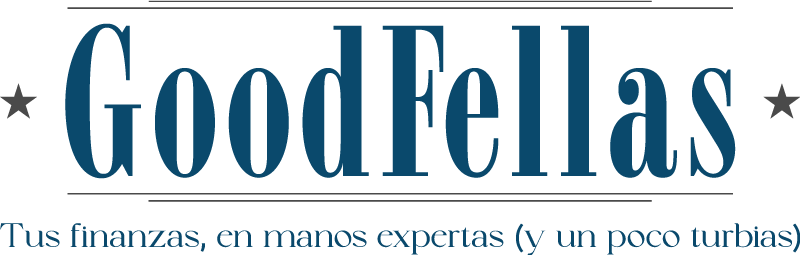
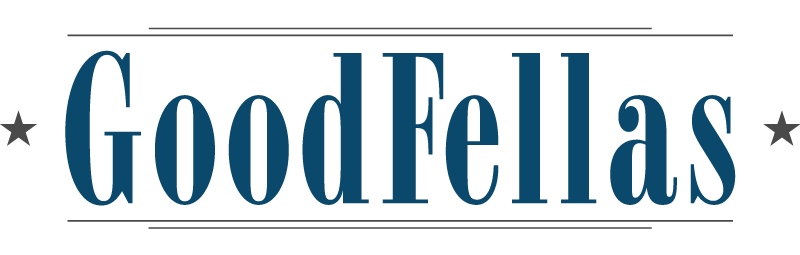
Subiendo

diff --git a/public_html/js/botones_pesos_dolares.js b/public_html/js/botones_pesos_dolares.js
@@ -20,5 +20,26 @@ document.addEventListener("DOMContentLoaded", () => {
         tablaResumenDolares.classList.remove("d-none");
         tablaResumenPesos.classList.add("d-none");
     });
+
+    // Acciones
+    const btnAccionesPesos = document.getElementById("btnAccionesPesos");
+    const btnAccionesDolares = document.getElementById("btnAccionesDolares");
+    const tablaAccionesPesos = document.getElementById("tablaAccionesPesos");
+    const tablaAccionesDolares = document.getElementById("tablaAccionesDolares");
+
+    // Función para alternar entre las tablas
+    btnAccionesPesos.addEventListener("click", () => {
+        btnAccionesPesos.classList.add("active");
+        btnAccionesDolares.classList.remove("active");
+        tablaAccionesPesos.classList.remove("d-none");
+        tablaAccionesDolares.classList.add("d-none");
+    });
+
+    btnAccionesDolares.addEventListener("click", () => {
+        btnAccionesDolares.classList.add("active");
+        btnAccionesPesos.classList.remove("active");
+        tablaAccionesDolares.classList.remove("d-none");
+        tablaAccionesPesos.classList.add("d-none");
+    });
     
 });

diff --git a/public_html/css/style.css b/public_html/css/style.css
@@ -1,10 +1,15 @@
 /* Archivo styles.css */
 @import url('https://fonts.googleapis.com/css2?family=Nunito+Sans:ital,opsz,wght@0,6..12,200..1000;1,6..12,200..1000&family=Ubuntu:ital,wght@0,300;0,400;0,500;0,700&display=swap');
+@import url('https://fonts.googleapis.com/css2?family=Playfair+Display:ital,wght@0,400..900;1,400..900&display=swap');
 
 body {
   font-family: "Nunito Sans", serif;
 }
-
+h1 {
+  font-family: 'Playfair Display', serif;
+  color: #08486B;
+  font-size: 1.8rem;
+}
 .sidebar {
   height: 100vh;
   position: fixed;

diff --git a/public_html/backend/cliente.php b/public_html/backend/cliente.php
@@ -1,3 +1,20 @@
+<?php
+// Incluir archivo de configuración
+require_once '../../config/config.php';
+
+// Obtener el id del cliente desde la URL
+$cliente_id = isset($_GET['id']) ? $_GET['id'] : 1;
+
+// Consulta para obtener los datos del cliente
+$sql = "SELECT nombre, apellido FROM clientes WHERE id = ?";
+$stmt = $conn->prepare($sql);
+$stmt->bind_param("i", $cliente_id);
+$stmt->execute();
+$stmt->bind_result($nombre, $apellido);
+$stmt->fetch();
+$stmt->close();
+?>
+
 <!DOCTYPE html>
 <html lang="es">
 
@@ -34,24 +51,19 @@
             <div class="collapse navbar-collapse" id="navbarNavDropdown">
                 <ul class="navbar-nav ms-auto">
                     <li class="nav-item">
-                        <a class="nav-link" href="../index.php"><i class="fas fa-home me-2"></i>Inicio
-                        </a>
+                        <a class="nav-link" href="../index.php"><i class="fas fa-home me-2"></i>Inicio</a>
                     </li>
                     <li class="nav-item">
-                        <a class="nav-link" href="lista_clientes.php"><i class="fa-solid fa-users me-2"></i>Clientes
-                        </a>
+                        <a class="nav-link active" href="lista_clientes.php"><i class="fa-solid fa-users me-2"></i>Clientes</a>
                     </li>
                     <li class="nav-item">
-                        <a class="nav-link" href="alta_clientes.php"><i class="fa-solid fa-user-plus me-2"></i>Alta Clientes
-                        </a>
+                        <a class="nav-link" href="alta_clientes.php"><i class="fa-solid fa-user-plus me-2"></i>Alta Clientes</a>
                     </li>
                     <li class="nav-item">
-                        <a class="nav-link active href=" historial.php"><i class="fa-solid fa-clock-rotate-left me-2"></i>Historial
-                        </a>
+                        <a class="nav-link" href="historial.php"><i class="fa-solid fa-clock-rotate-left me-2"></i>Historial</a>
                     </li>
                     <li class="nav-item">
-                        <a class="nav-link" href="../logout.php"><i class="fa-solid fa-power-off me-2"></i>Salir
-                        </a>
+                        <a class="nav-link" href="../logout.php"><i class="fa-solid fa-power-off me-2"></i>Salir</a>
                     </li>
                 </ul>
             </div>
@@ -64,7 +76,7 @@
 
         <!-- TITULO -->
         <div class="col-12 text-center">
-            <h4 class="fancy"><!-- CLIENTE --></h4>
+            <h4 class="fancy"><?php echo htmlspecialchars($nombre . ' ' . $apellido); ?></h4>
         </div>
         <!-- FIN TITULO -->
 
@@ -99,6 +111,167 @@
             </div>
         </div>
         <!-- FIN RESUMEN -->
+
+        <!-- TENENCIAS -->
+        <div class="col-12 text-center">
+
+            <!-- ACCIONES -->
+            <div class="container-fluid my-4 efectivo" id="acciones">
+                <h5 class="me-2 cartera titulo-botones">Acciones</h5>
+
+                <!-- Botones -->
+                <div class="text-start">
+                    <div class="btn-group mb-3" role="group">
+                        <button id="btnAccionesPesos" class="btn btn-custom ver active">Posición en Pesos</button>
+                        <button id="btnAccionesDolares" class="btn btn-custom ver">Posición en Dólares</button>
+                    </div>
+                </div>
+                <!-- Fin Botones -->
+
+                <!-- Acciones Pesos -->
+                <div id="tablaAccionesPesos">
+
+                    <!-- Consolidada Acciones Pesos -->
+                    <div class="table-responsive">
+                        <table class="table table-bordered table-striped">
+                            <thead>
+                                <tr>
+                                    <th>Valor Inicial</th>
+                                    <th>Valor Actual</th>
+                                    <th>Rendimiento</th>
+                                    <th>Rentabilidad</th>
+                            </thead>
+                            <tbody>
+                                <tr>
+                                    <td><!-- valor_inicial_acciones_pesos --></td>
+                                    <td><!-- valor_actual_acciones_pesos --></td>
+                                    <td><!-- rendimiento_acciones_pesos --></td>
+                                    <td><!-- rentabilidad_acciones_pesos --></td>
+                                </tr>
+                            </tbody>
+                        </table>
+                    </div>
+                    <!-- Fin Consolidada Acciones Pesos -->
+
+                    <hr class="linea-accion">
+
+                    <!-- Completa Acciones Pesos -->
+                    <div class="table-responsive">
+                        <table class="table table-bordered table-striped">
+                            <thead>
+                                <tr>
+                                    <th>Ticker</th>
+                                    <th>Fecha</th>
+                                    <th>Cantidad</th>
+                                    <th>Valor<br>Compra</th>
+                                    <th>Valor<br>Actual</th>
+                                    <th>Rendimiento</th>
+                                    <th>Rentabilidad</th>
+                                    <th colspan="2">Venta</th>
+                                    <th colspan="2">Operaciones</th>
+                                </tr>
+                            </thead>
+                            <tbody id="tabla-acciones-pesos">
+                                <tr>
+                                    <td>AAPL</td>
+                                    <td>10-02-2025</td>
+                                    <td>10</td>
+                                    <td>100</td>
+                                    <td>150</td>
+                                    <td>50</td>
+                                    <td>50%</td>
+                                    <td class="text-center"><a href="" class="btn btn-custom eliminar" data-bs-toggle="tooltip" data-bs-placement="top" title="Venta parcial"><i class="fa-solid fa-percent"></i></a></td>
+                                    <td class="text-center"><a href="" class="btn btn-custom eliminar" data-bs-toggle="tooltip" data-bs-placement="top" title="Venta total"><i class="fa-solid fa-dollar-sign"></i></a></td>
+                                    <td class="text-center"><a href="" class="btn btn-custom editar" data-bs-toggle="tooltip" data-bs-placement="top" title="Editar"><i class="fa-solid fa-pen-to-square"></i></a></td>
+                                    <td class="text-center"><button class="btn btn-custom eliminar" data-bs-toggle="tooltip" data-bs-placement="top" title="Eliminar" onclick=""><i class="fa-solid fa-trash"></i></button></td>
+                                </tr>
+                            </tbody>
+                        </table>
+                    </div>
+                    <!-- Fin Completa Acciones Pesos -->
+
+                </div>
+                <!-- Fin Acciones Pesos -->
+
+                <!-- Acciones Dólares -->
+                <div id="tablaAccionesDolares" class="d-none">
+
+                    <!-- Consolidada Acciones Dólares -->
+                    <div class="table-responsive">
+                        <table class="table table-bordered table-striped">
+                            <thead>
+                                <tr>
+                                    <th>Valor Inicial</th>
+                                    <th>Valor Actual</th>
+                                    <th>DOLARES</th>
+                                    <th>Rentabilidad</th>
+                                </tr>
+                            </thead>
+                            <tbody>
+                                <tr>
+                                    <td><!-- valor_inicial_acciones_dolares --></td>
+                                    <td><!-- valor_actual_acciones_dolares --></td>
+                                    <td><!-- rendimiento_acciones_dolares --></td>
+                                    <td><!-- rentabilidad_acciones_dolares --></td>
+                                </tr>
+                            </tbody>
+                        </table>
+                    </div>
+                    <!-- Fin Consolidada Acciones Dólares -->
+
+                    <hr class="linea-accion">
+
+                    <!-- Completa Acciones Dólares -->
+                    <div class="table-responsive">
+                        <table class="table table-bordered table-striped">
+                            <thead>
+                                <tr>
+                                    <th>Ticker</th>
+                                    <th>Fecha</th>
+                                    <th>Cantidad</th>
+                                    <th>Valor<br>Compra</th>
+                                    <th>Valor<br>Actual</th>
+                                    <th>Rendimiento</th>
+                                    <th>Rentabilidad</th>
+                                    <th colspan="2">Venta</th>
+                                    <th colspan="2">Operaciones</th>
+                                </tr>
+                            </thead>
+                            <tbody id="tabla-acciones-dolares">
+                                <tr data-ticker="">
+                                    <td><!-- ticker_acciones --></td>
+                                    <td><!-- fecha_acciones --></td>
+                                    <td><!-- cantidad_acciones --></td>
+                                    <td><!-- valor_compra_acciones_dolares --></td>
+                                    <td><!-- valor_actual_acciones_dolares --></td>
+                                    <td><!-- rendimiento_acciones_dolares --></td>
+                                    <td><!-- rentabilidad_acciones_dolares --></td>
+                                    <td class="text-center"><a href="" class="btn btn-custom eliminar" data-bs-toggle="tooltip" data-bs-placement="top" title="Venta parcial"><i class="fa-solid fa-percent"></i></a></td>
+                                    <td class="text-center"><a href="" class="btn btn-custom eliminar" data-bs-toggle="tooltip" data-bs-placement="top" title="Venta total"><i class="fa-solid fa-dollar-sign"></i></a></td>
+                                    <td class="text-center"><a href="" class="btn btn-custom editar" data-bs-toggle="tooltip" data-bs-placement="top" title="Editar"><i class="fa-solid fa-pen-to-square"></i></a></td>
+                                    <td class="text-center"><button class="btn btn-custom eliminar" data-bs-toggle="tooltip" data-bs-placement="top" title="Eliminar" onclick=""><i class="fa-solid fa-trash"></i></button></td>
+                                </tr>
+                            </tbody>
+                        </table>
+                    </div>
+                    <!-- Fin Completa Acciones Dólares -->
+                </div>
+                <hr class="linea-accion">
+
+                <!-- Comprar Acciones -->
+                <div class="text-start">
+                    <a href="" class="btn btn-custom ver">
+                        <i class="fa-solid fa-cart-shopping me-2"></i>Comprar
+                    </a>
+                </div>
+                <!-- Fin Comprar Acciones -->
+
+            </div>
+            <!-- FIN ACCIONES -->
+
+            <hr class="mod">
+        </div>
+        <!-- FIN TENENCIAS -->
 
     </div>
     <!-- FIN CONTENIDO -->

diff --git a/public_html/funciones/editar_cliente.php b/public_html/funciones/editar_cliente.php
@@ -82,15 +82,15 @@ if ($_SERVER["REQUEST_METHOD"] == "POST") {
                         </a>
                     </li>
                     <li class="nav-item">
-                        <a class="nav-link" href="lista_clientes.php"><i class="fa-solid fa-users me-2"></i>Clientes
+                        <a class="nav-link active" href="../backend/lista_clientes.php"><i class="fa-solid fa-users me-2"></i>Clientes
                         </a>
                     </li>
                     <li class="nav-item">
-                        <a class="nav-link active" href="alta_clientes.php"><i class="fa-solid fa-user-plus me-2"></i>Alta Clientes
+                        <a class="nav-link" href="../backend/alta_clientes.php"><i class="fa-solid fa-user-plus me-2"></i>Alta Clientes
                         </a>
                     </li>
                     <li class="nav-item">
-                        <a class="nav-link" href="historial.php"><i class="fa-solid fa-clock-rotate-left me-2"></i>Historial
+                        <a class="nav-link" href="../backend/historial.php"><i class="fa-solid fa-clock-rotate-left me-2"></i>Historial
                         </a>
                     </li>
                     <li class="nav-item">
@@ -108,7 +108,7 @@ if ($_SERVER["REQUEST_METHOD"] == "POST") {
 
         <!-- TITULO -->
         <div class="col-12 text-center">
-            <h4 class="fancy">Alta de Clientes</h4>
+            <h4 class="fancy">Editar Cliente</h4>
         </div>
         <!-- FIN TITULO -->
 
@@ -118,7 +118,7 @@ if ($_SERVER["REQUEST_METHOD"] == "POST") {
         <div class="col-3"></div>
         <div class="col-6 text-center">
             <div class="container-fluid my-4 efectivo">
-                <h5 class="me-2 cartera titulo-botones">Formulario de registro</h5>
+                <h5 class="me-2 cartera titulo-botones">Edición de datos</h5>
                 <form method="POST">
                     <div class="row mb-3 align-items-center">
                         <label for="nombre" class="col-sm-2 col-form-label text-right">Nombre</label>

diff --git a/public_html/backend/lista_clientes.php b/public_html/backend/lista_clientes.php
@@ -102,7 +102,7 @@ $conn->close();
                                     <td><?php echo htmlspecialchars($row['telefono']); ?></td>
                                     <td><?php echo htmlspecialchars($row['corredora']); ?></td>
                                     <td class="text-center">
-                                        <a href="" class="btn btn-info btn-custom ver" data-bs-toggle="tooltip" data-bs-placement="top" title="Ver">
+                                        <a href="cliente.php?id=<?php echo $row['id']; ?>" class="btn btn-info btn-custom ver" data-bs-toggle="tooltip" data-bs-placement="top" title="Ver">
                                             <i class="fa-solid fa-magnifying-glass"></i>
                                         </a>
                                     </td>

diff --git a/public_html/index.php b/public_html/index.php
@@ -66,8 +66,9 @@ require_once '../config/config.php';
 
     <!-- CONTENIDO -->
     <div class="row mt-navbar mx-2">
-        <div class="col-12 text-center mt-navbar">
+        <div class="col-12 text-center mt-2">
             <img src="img/goodfellas.png" alt="Inicio" class="img-fluid">
+            <h1>Tus finanzas en manos expertas (y un poco turbias)</h1>
         </div>
     </div>
     <!-- FIN CONTENIDO -->
